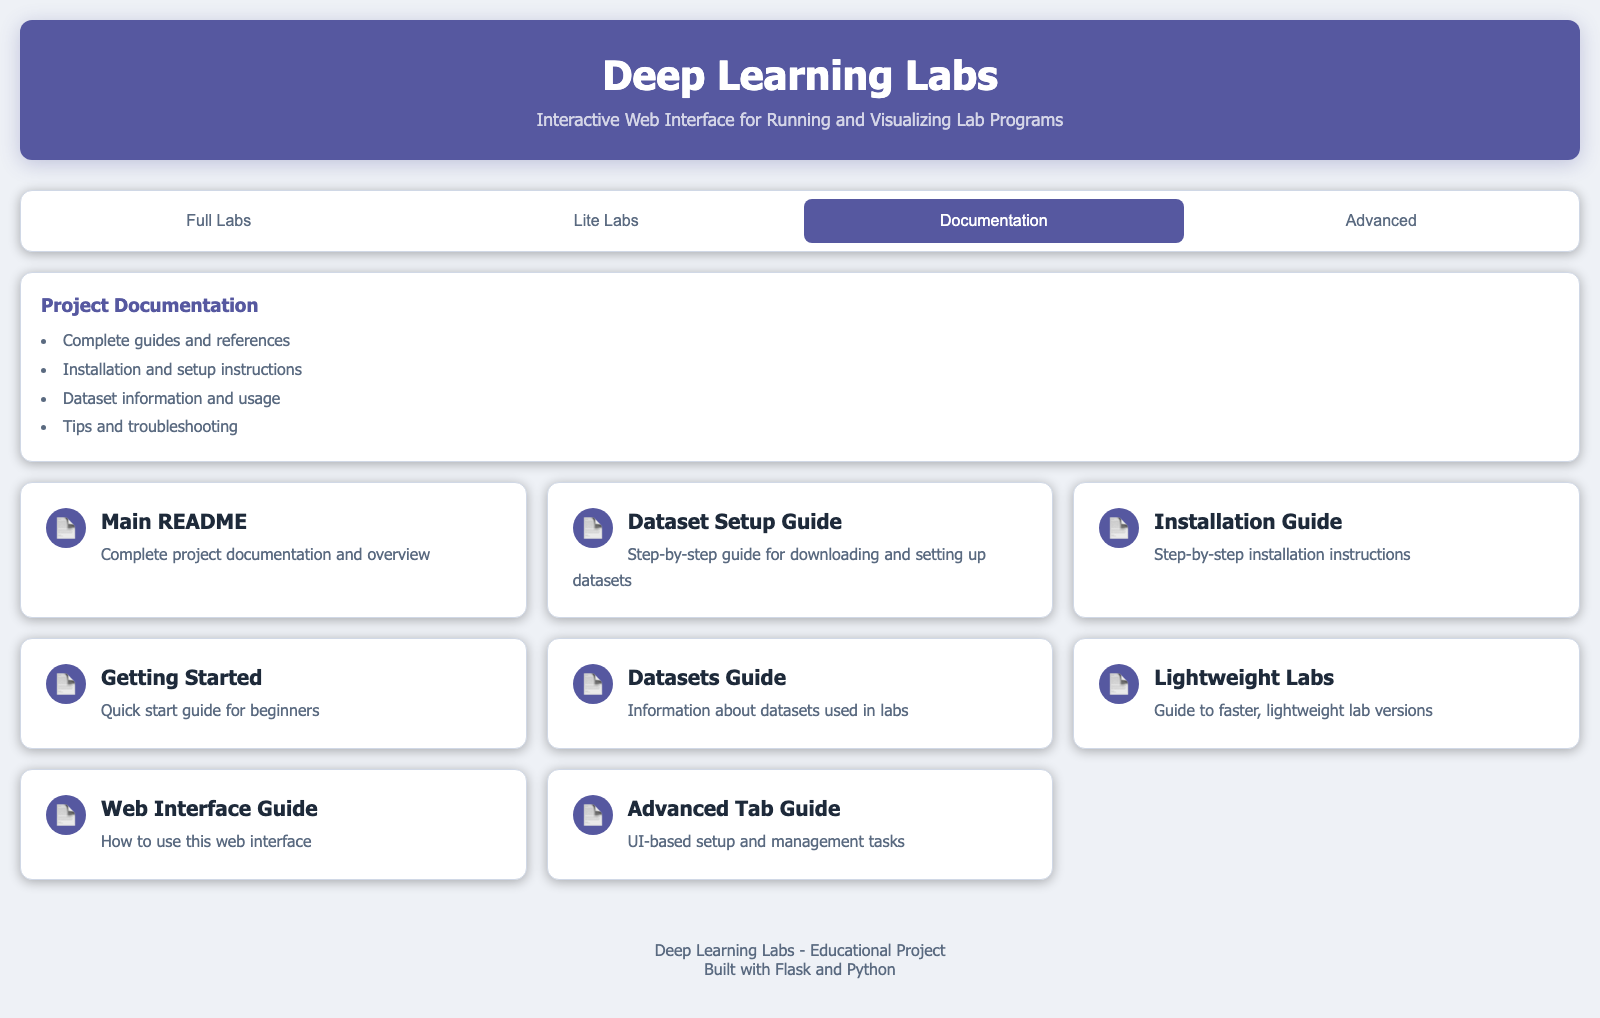
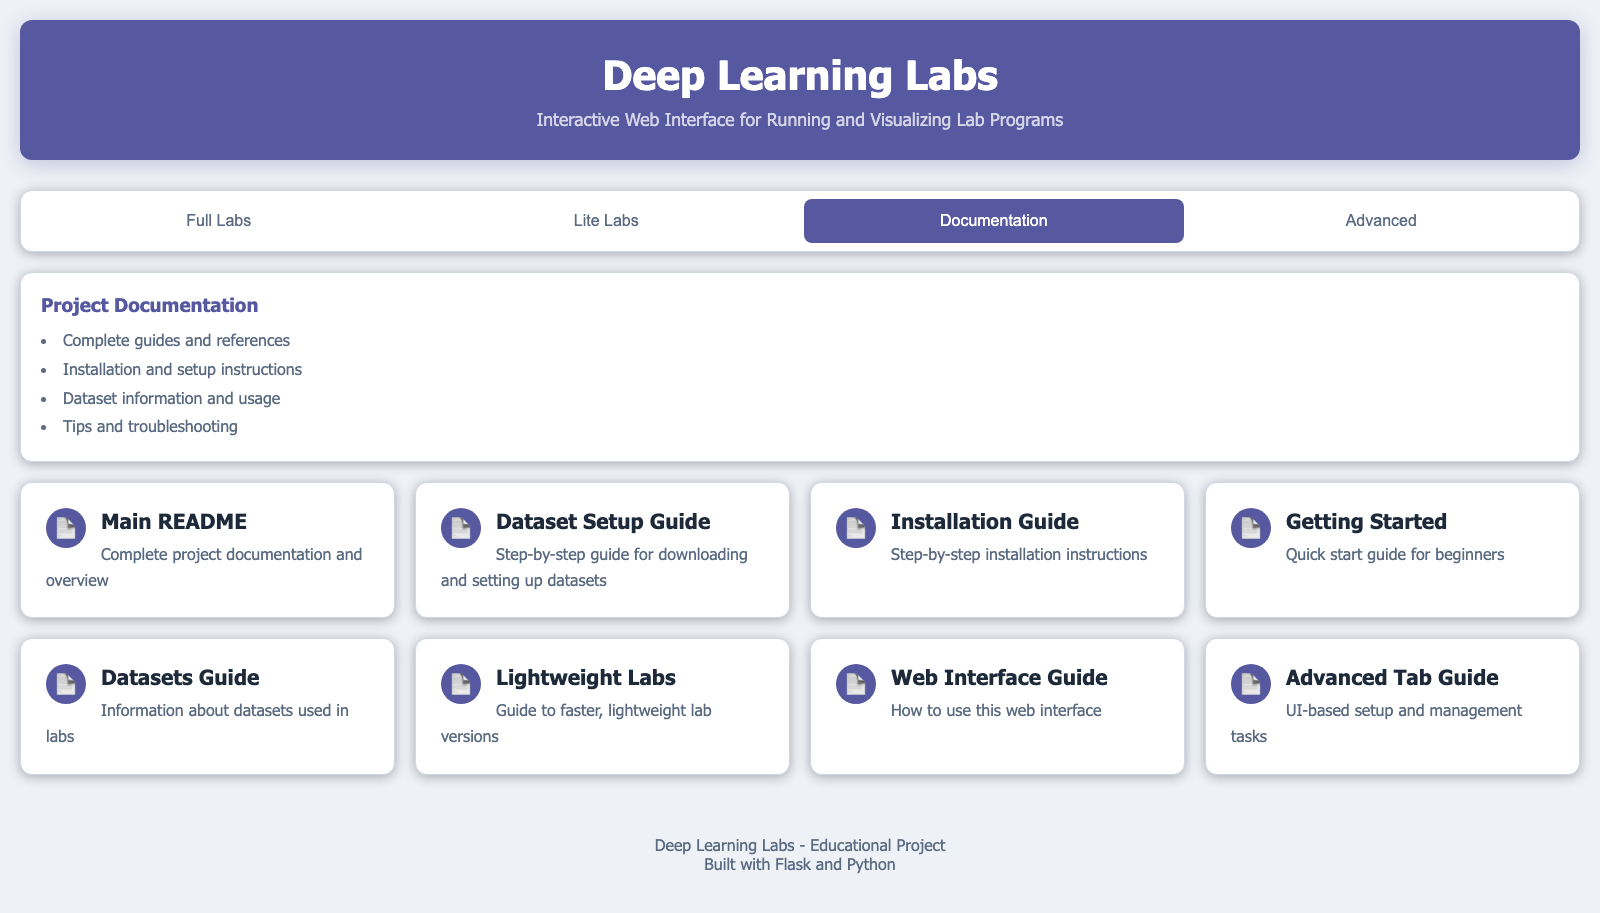
Switch Documentation tab to 4x2 grid layout; update screenshot

Changed region(s): [[0.0, 0.0613, 1.0, 0.8894], [0.4062, 0.92, 0.5938, 0.9814]]

diff --git a/web_interface/templates/index.html b/web_interface/templates/index.html
@@ -434,7 +434,7 @@
 
         #docs-list {
             display: grid;
-            grid-template-columns: repeat(3, 1fr);
+            grid-template-columns: repeat(4, 1fr);
             gap: 20px;
             margin-top: 20px;
         }
